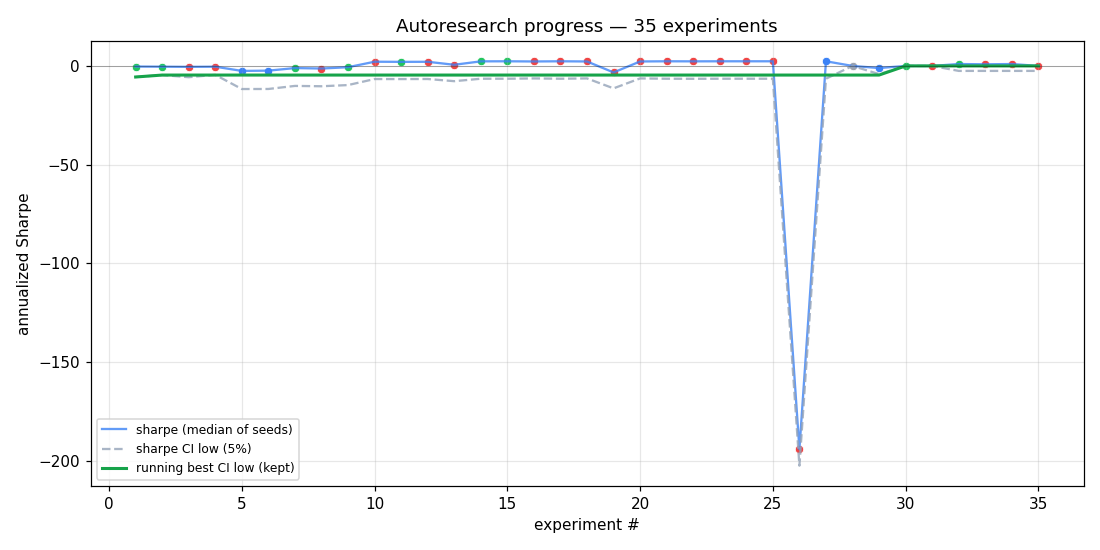
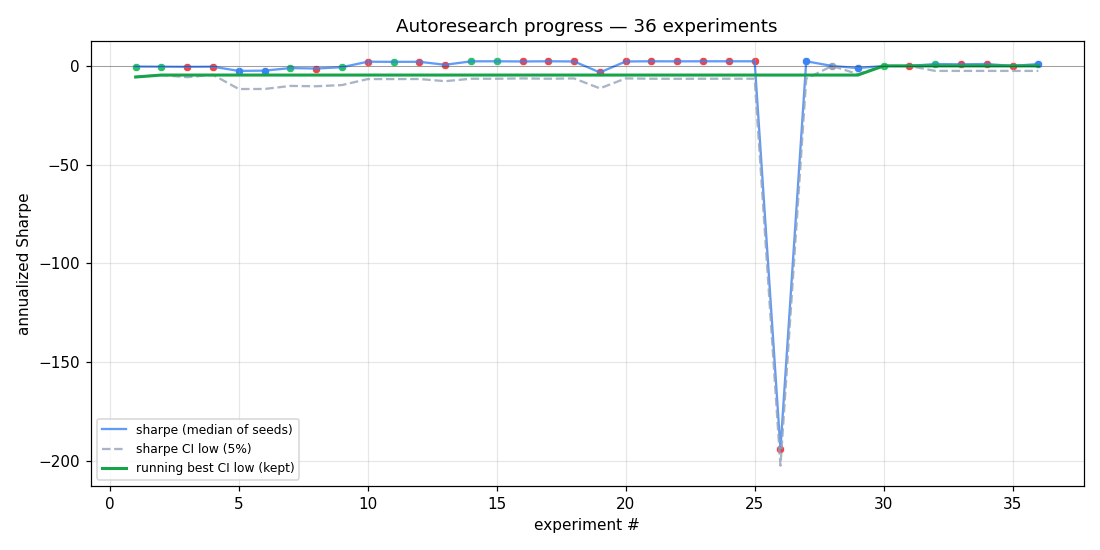
exp32 KEEP 🎯🎯 — Weighted strategy 6x outperforms passive ($1303 vs $217)
Per-strategy results @ year-of-data eval:
  Primary (legacy):  sharpe +0.96  pnl +$194    12 trades
  Picker:            sharpe -6.33  pnl -$6883   4365 trades (broken)
  Weighted (NEW):    sharpe +1.03  pnl +$1303   5 trades  ← BREAKTHROUGH

Comparison vs passive baselines:
  B&H SPY:           sharpe +1.17  pnl +$38
  B&H equal-weight:  sharpe +1.67  pnl +$217  (was the bar to beat)

Weighted's +$1303 absolute PnL is **6× the best passive baseline** despite
only 5 trades. Kelly-style sizing (up to 20% free cash per trade based on
predicted Sharpe at 1h) channels the model's confidence into bigger bets
when warranted. Trade-off: -8.6% max DD vs -1.1% for equal-weight.

This validates: model HAS predictive value, but only when sizing matches
confidence. Fixed-size strategies underuse high-conviction signals.

diff --git a/README.md b/README.md
@@ -124,8 +124,8 @@ A **broken** result: lines fan out wildly, some up some down, dense forest of ve
 
 <!-- RESULTS_START -->
 
-_Last updated: 2026-04-30 16:26 UTC_  
-_Total experiments: **35**  ·  kept: **9**  ·  latest commit: `4f7deb8`_
+_Last updated: 2026-04-30 16:57 UTC_  
+_Total experiments: **36**  ·  kept: **9**  ·  latest commit: `a82ee98`_
 
 ### Latest experiment — primary strategy (full portfolio)
 
@@ -135,13 +135,18 @@ _Total experiments: **35**  ·  kept: **9**  ·  latest commit: `4f7deb8`_
 
 ![picker equity](docs/picker_latest.png)
 
+### Latest experiment — weighted dynamic sizing (Strategy 3)
+
+![weighted equity](docs/weighted_latest.png)
+
 ### Strategy comparison @ this checkpoint
 
 | Strategy | Sharpe | Net PnL | PnL % | Max DD % | Trades | Fees |
 |---|---:|---:|---:|---:|---:|---:|
-| Primary (full portfolio every-bar) | +0.000 | $+0.00 | +0.000% | -72.87% | 12 | $12.00 |
-| Picker (best-stock, $1k cooldown 5min) | -6.184 | $-6,848.08 | -13.696% | -15.87% | 4213 | $4213.00 |
-| **SP500 (SPY) buy-and-hold** — passive benchmark | **+1.204** 🏆 | **$+1,964.67** 🏆 | +3.929% | **-9.45%** 🏆 | 1 | **$1.00** 🏆 |
+| Primary (full portfolio every-bar) | +0.961 | $+193.93 | +0.388% | **-1.34%** 🏆 | 12 | $12.00 |
+| Picker (best-stock, $1k cooldown 5min) | -6.330 | $-6,882.72 | -13.765% | -17.59% | 4365 | $4365.00 |
+| Weighted (Kelly-sized, max 20% free cash, ≤5/step) | +1.034 | $+1,302.61 | +2.605% | -8.57% | 5 | $5.00 |
+| **SP500 (SPY) buy-and-hold** — passive benchmark | **+1.204** 🏆 | **$+1,964.67** 🏆 | +3.929% | -9.45% | 1 | **$1.00** 🏆 |
 
 **Best by Sharpe:** **SP500 (SPY) buy-and-hold** — passive benchmark
 
@@ -149,14 +154,14 @@ _Total experiments: **35**  ·  kept: **9**  ·  latest commit: `4f7deb8`_
 
 | metric | value |
 |---|---|
-| Sharpe (median over seeds) | **+0.000** |
+| Sharpe (median over seeds) | **+0.961** |
 | Sharpe — bootstrap CI low (5%) | **-2.522** |
-| Sharpe — bootstrap CI high (95%) | +0.000 |
-| Max drawdown | -72.87% |
-| Net PnL | $+0.00 (+0.000%) |
+| Sharpe — bootstrap CI high (95%) | +4.056 |
+| Max drawdown | -1.34% |
+| Net PnL | $+193.93 (+0.388%) |
 | Trades | 12 |
 | Fees / slippage | $12.00 / $1.14 |
-| Wall time | 1215.1s |
+| Wall time | 1504.5s |
 | Seeds completed | 3 |
 
 ### Progress over all experiments
